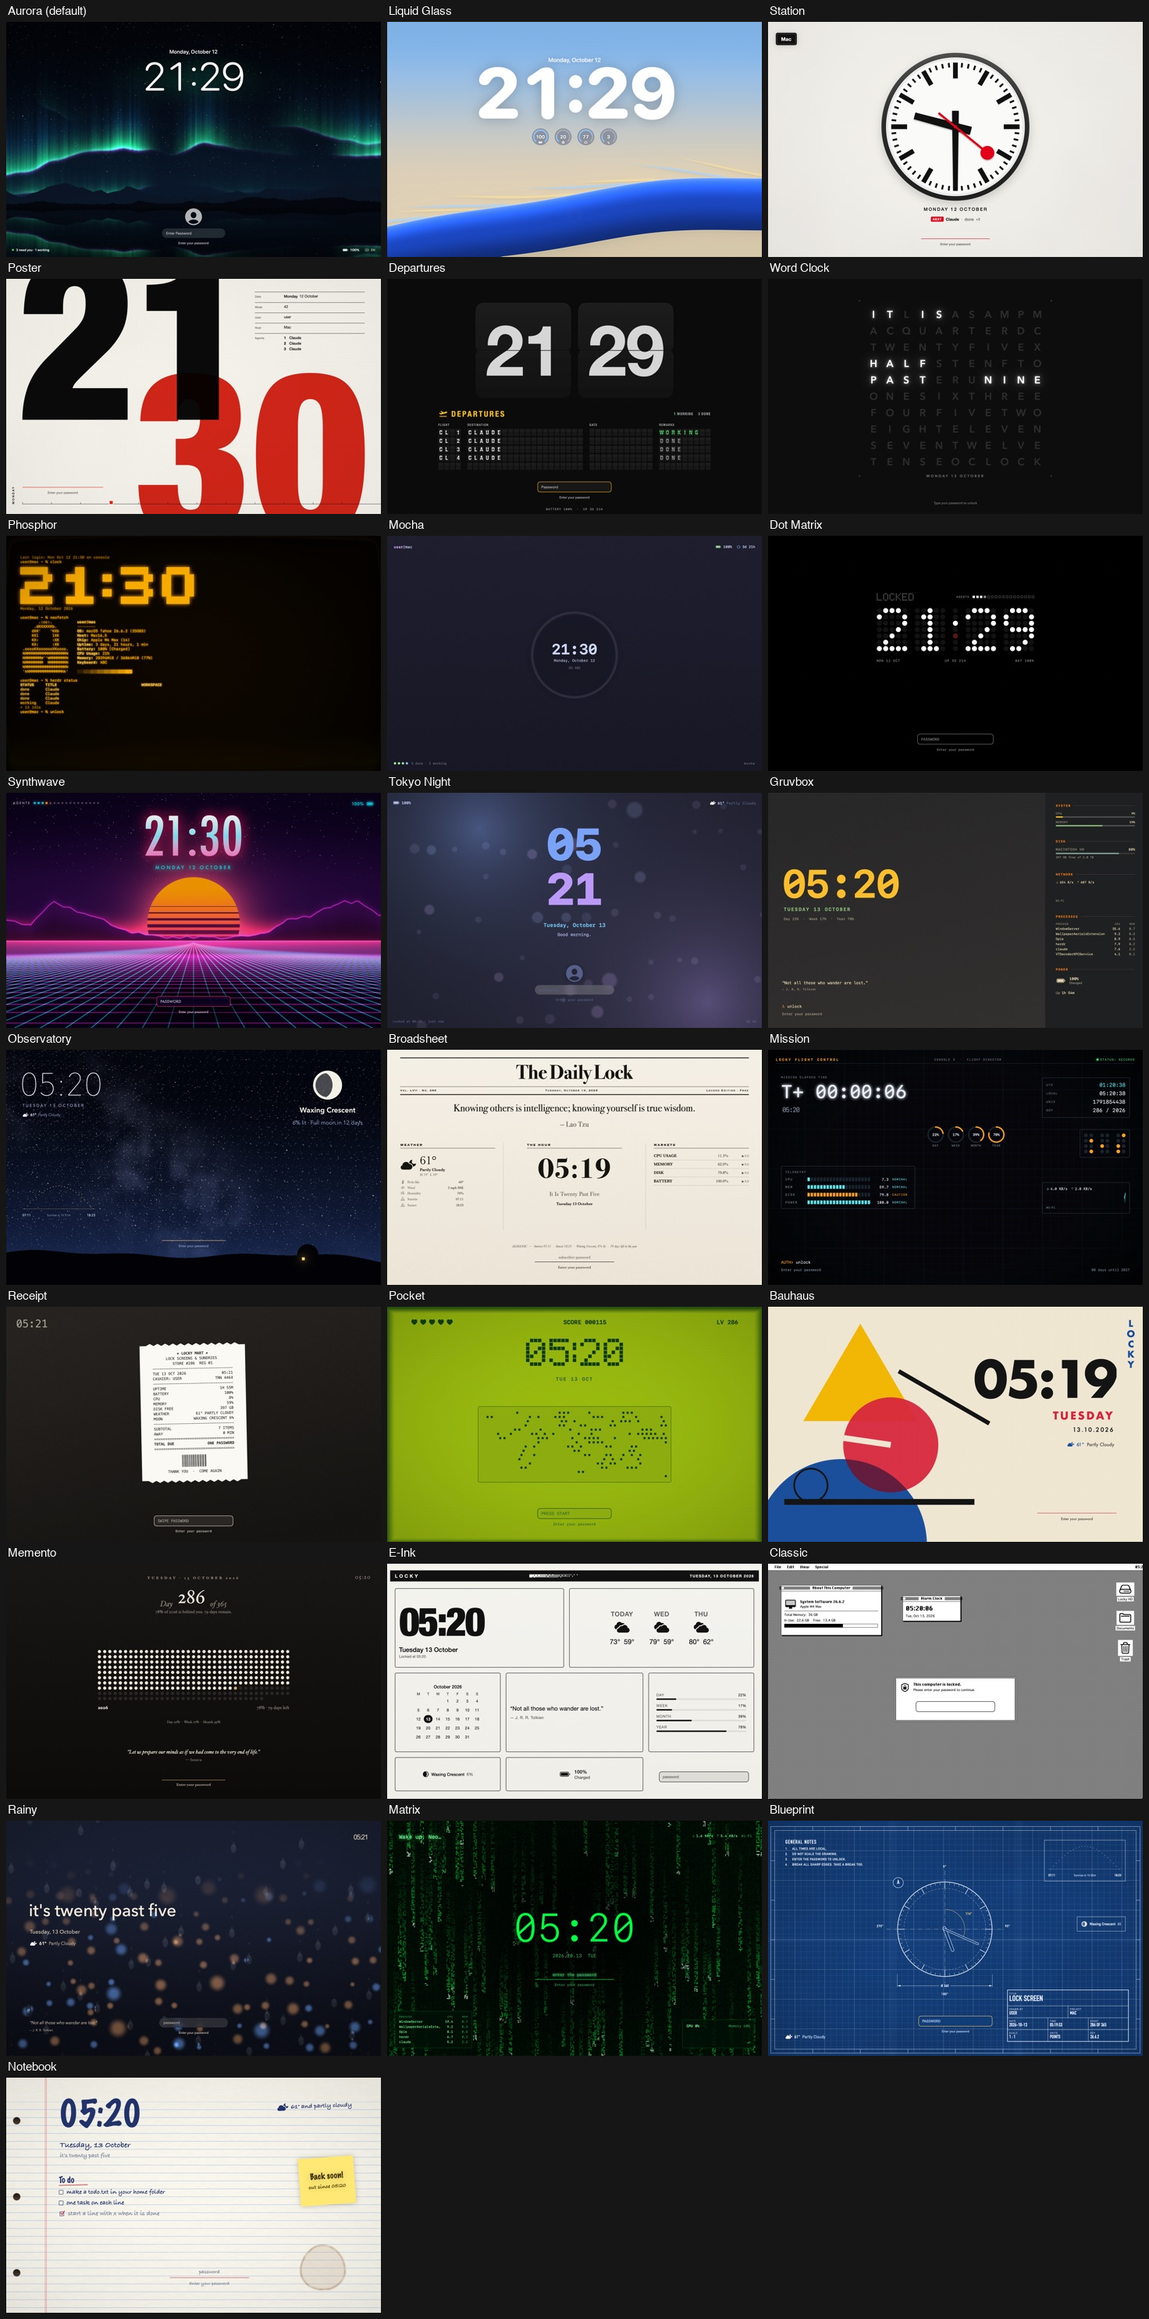
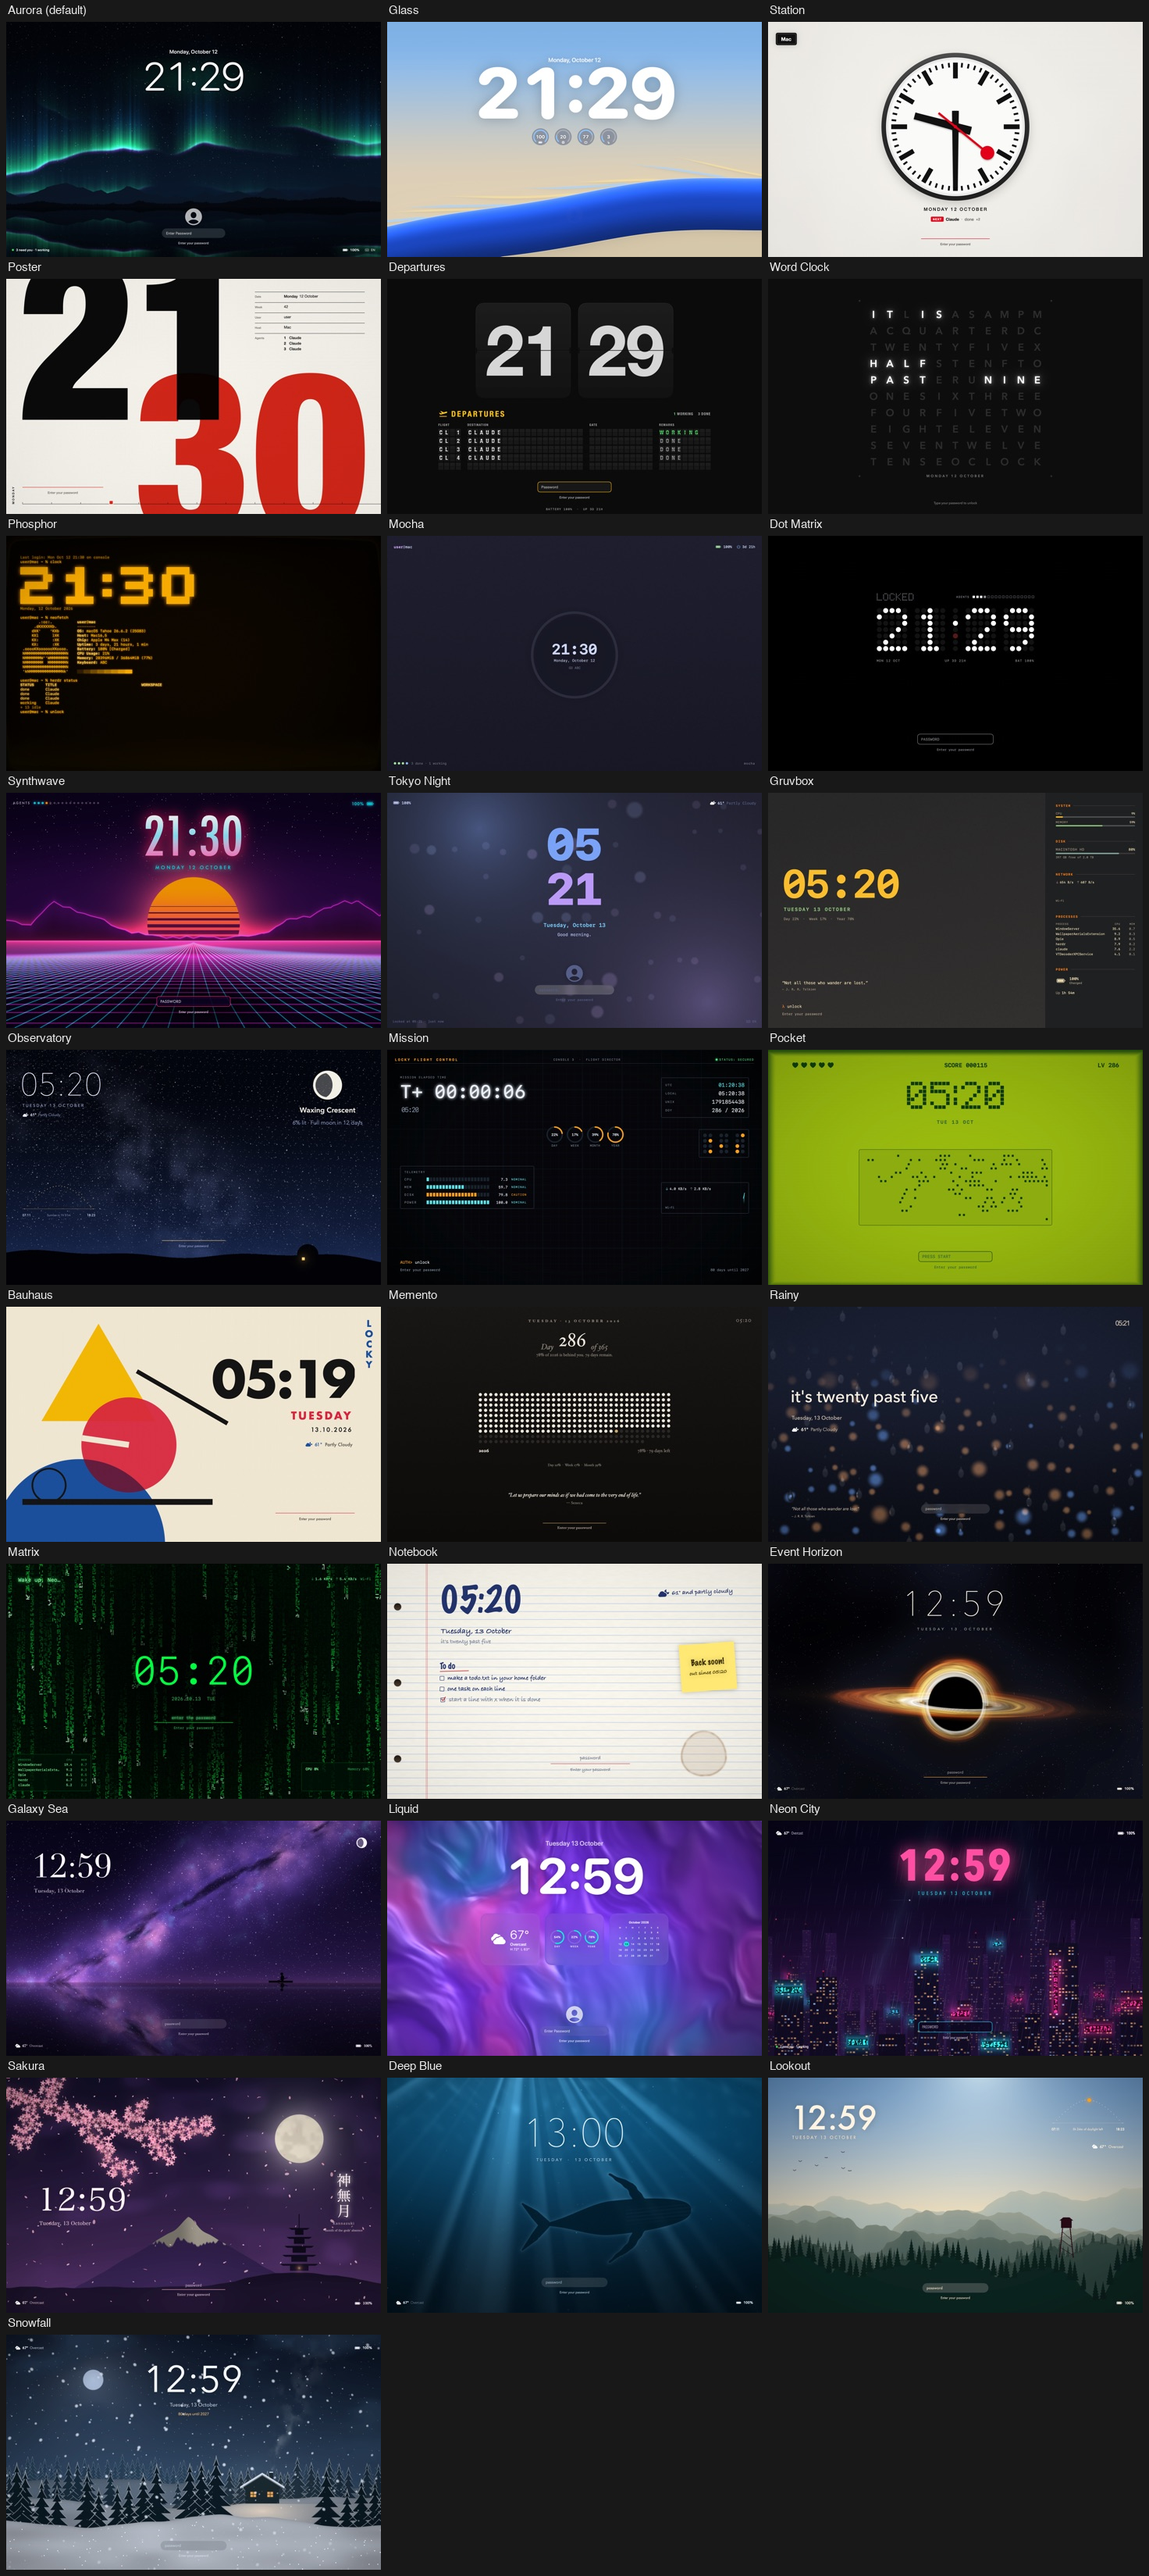
Show the live wallpaper themes and the Widgets page in the README

diff --git a/README.md b/README.md
@@ -20,8 +20,9 @@ The menu bar icon has Lock Now, the theme picker, and Settings…, which opens L
 
 ![The built-in themes](docs/gallery.png)
 
-Twenty themes ship with Locky. Each is a package in `Sources/Locky/Resources/packages/<id>/` (Aurora, the
-default, lives in the core runtime) with its own widgets, shaders, and a README with its options.
+Twenty-eight themes ship with Locky. Each is a package in `Sources/Locky/Resources/packages/<id>/` (Aurora, the
+default, lives in the core runtime) with its own widgets, shaders, and a README with its options. The last eight
+are live wallpapers, after the most popular scenes on Wallpaper Engine's Steam Workshop, drawn entirely in Metal.
 
 | Theme | id | Look |
 |---|---|---|
@@ -45,18 +46,26 @@ default, lives in the core runtime) with its own widgets, shaders, and a README 
 | Rainy | `rainy` | Rain sliding down a window over city lights; the time in words. |
 | Matrix | `matrix` | Digital rain, a glowing clock, and "Wake up, Neo…" typed in the corner. |
 | Notebook | `notebook` | A ruled notebook page: your todo.txt by hand, a sticky note, a coffee ring. |
+| Event Horizon | `eventhorizon` | A black hole's turning accretion disk, its light bent around the shadow. |
+| Galaxy Sea | `galaxysea` | The Milky Way mirrored in a calm sea, a small boat on the horizon, meteors. |
+| Liquid | `liquid` | Color folding into color like silk; a big clock and a row of glass widgets. |
+| Neon City | `neoncity` | A rainy city at 2 AM: towers drifting past, neon signs, a neon clock. |
+| Sakura | `sakura` | A cherry branch under the moon, falling petals, the month's old Japanese name. |
+| Deep Blue | `deepblue` | Underwater light rays and plankton, and a humpback gliding past. |
+| Lookout | `lookout` | Firewatch-style ridges and a fire lookout, lit by the real time of day. |
+| Snowfall | `snowfall` | Snow falling on a pine forest at night, a cabin with warm windows. |
 
 Pick one in the menu's Theme submenu, or in `init.lua` with `locky.setup({ theme = "station" })`.
 `Scripts/snapshot.sh <id> out.png [1728x1117]` renders any theme to a PNG.
 
 ## The window
 
-Settings… (⌘,) in the menu opens Locky's window: a live dashboard, a theme editor (drag widgets
-on the live preview, with a grid to snap to; change a widget's options, the background, and where the password
-field sits), plugins (install, update, remove), the config with Open in your editor, and settings such as the
-Lock Now shortcut, auto-lock, Open at Login, a lock screen message, privacy mode, a theme schedule, the
-battery saver, and a photo after wrong passwords. It saves to `~/.config/locky/settings.json`, which wins
-over init.lua key by key: see [settings.md](docs/settings.md).
+Settings… (⌘,) in the menu opens Locky's window: a live dashboard, a theme editor (drag widgets on the live
+preview, with a grid to snap to; change a widget's options, the background, and where the password field sits),
+every widget drawn live with Install Widgets…, plugins (install, update, remove), the config with Open in your
+editor, and settings such as the Lock Now shortcut, auto-lock, Open at Login, a lock screen message, privacy mode,
+a theme schedule, the battery saver, and a photo after wrong passwords. It saves to
+`~/.config/locky/settings.json`, which wins over init.lua key by key: see [settings.md](docs/settings.md).
 
 ## Configure
 
